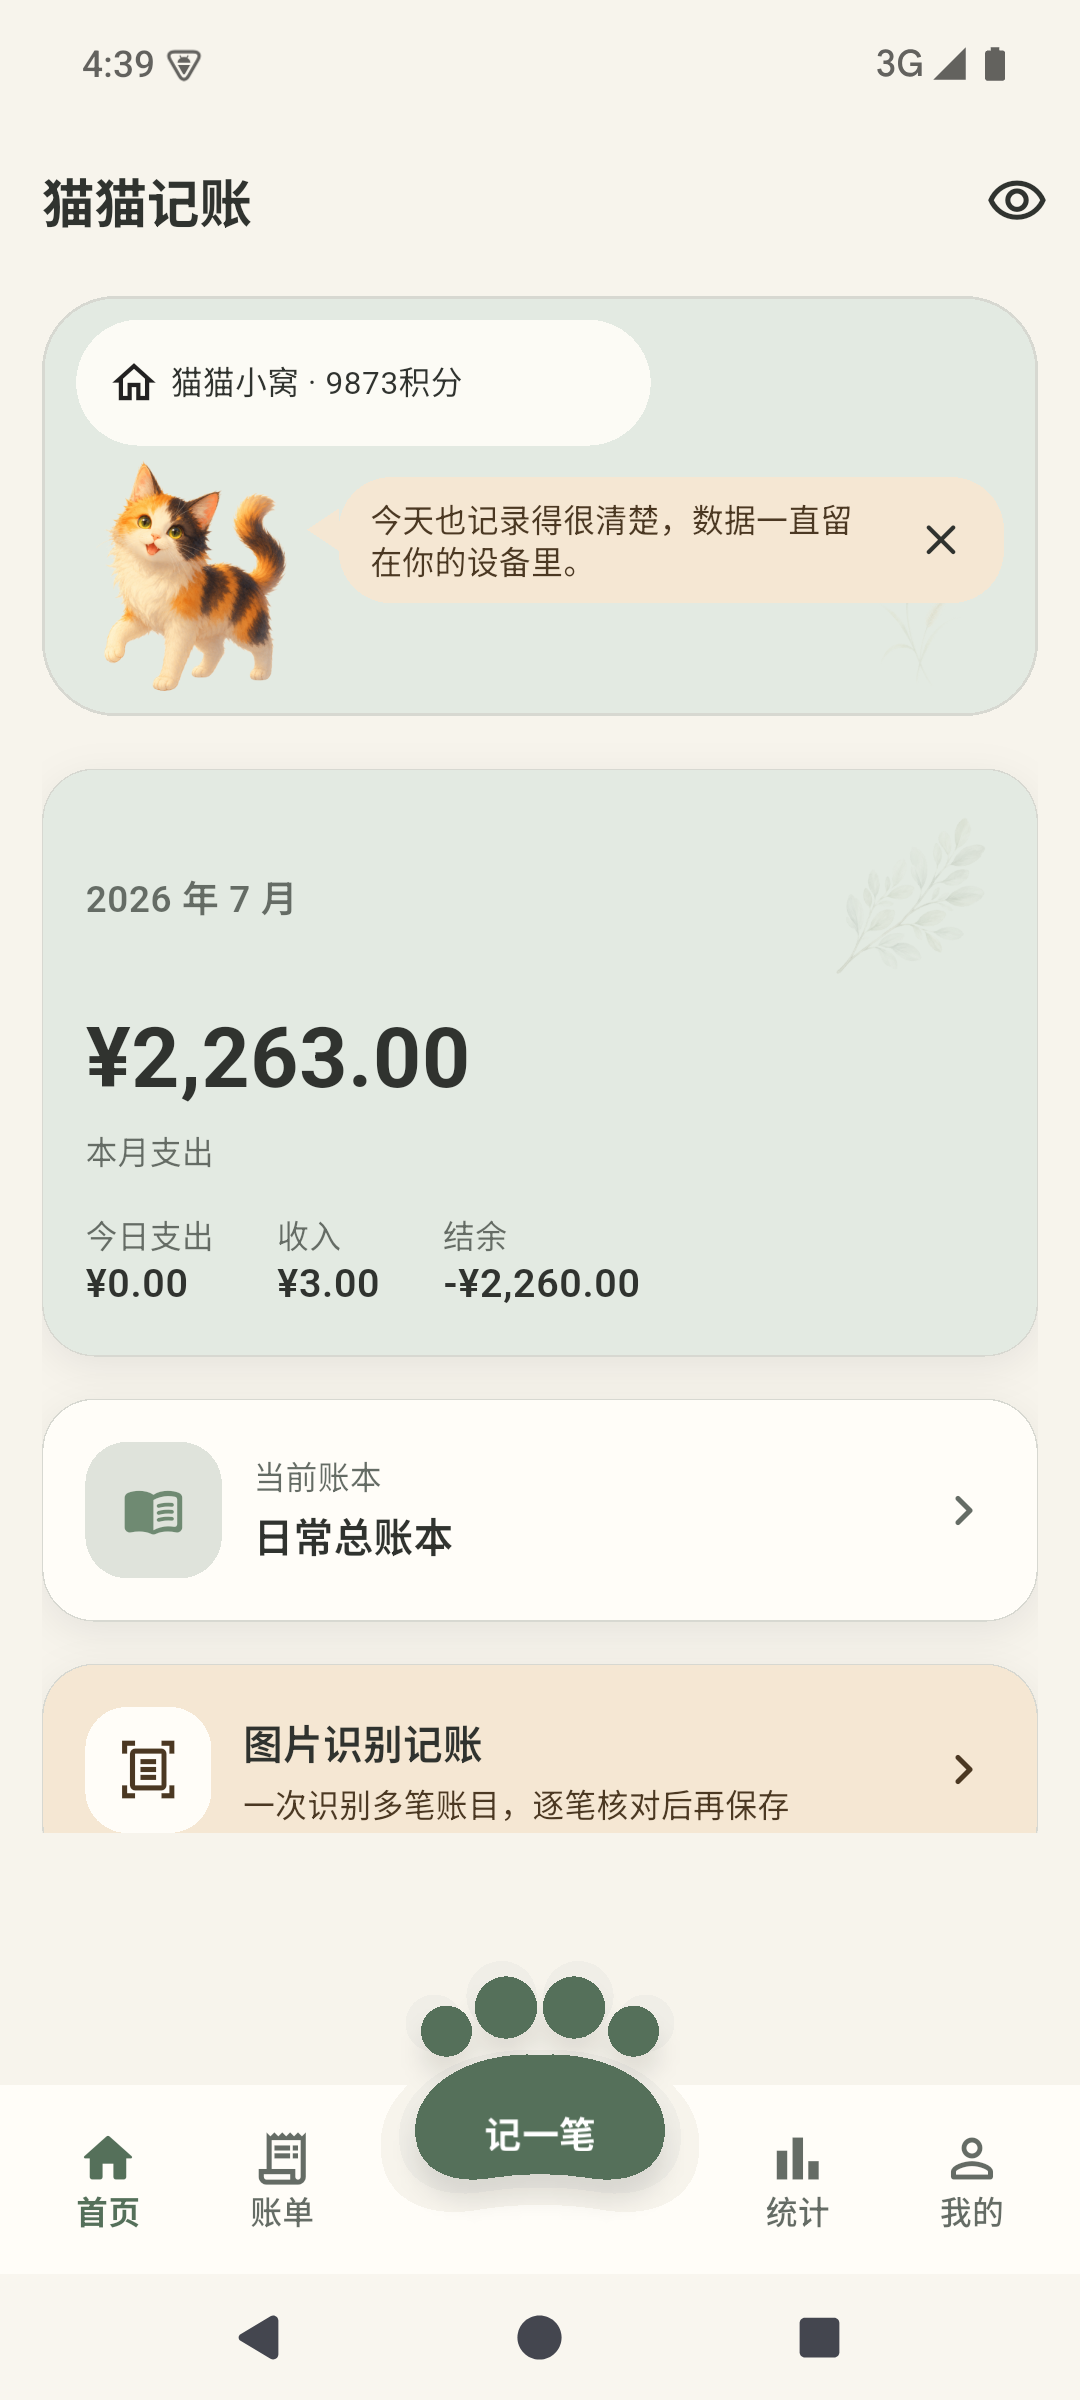
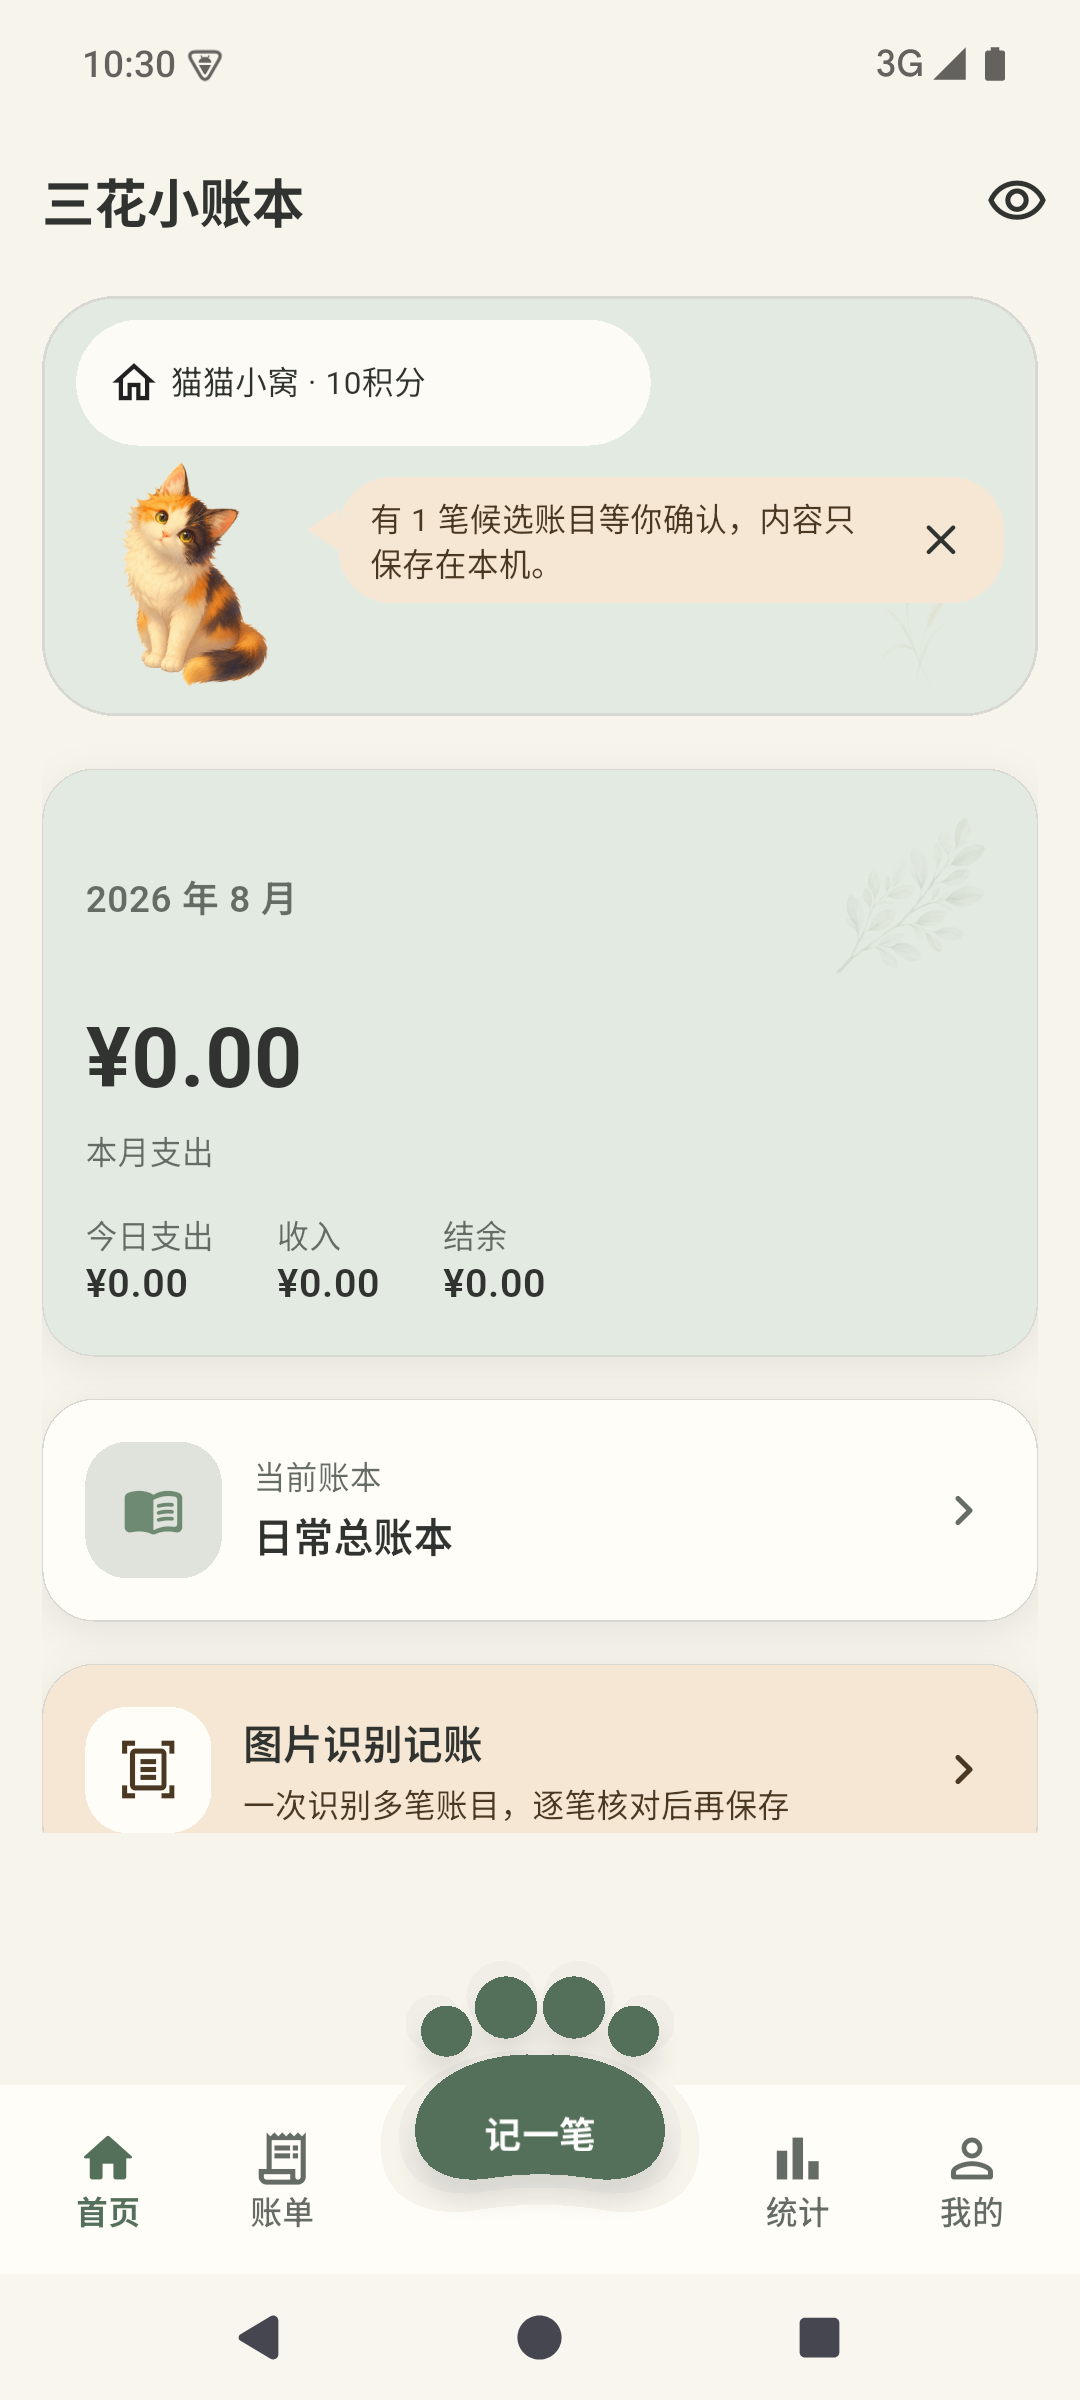
rename app to 三花小账本

diff --git a/privacy.html b/privacy.html
@@ -3,9 +3,9 @@
   <head>
     <meta charset="utf-8">
     <meta name="viewport" content="width=device-width, initial-scale=1">
-    <meta name="description" content="猫猫记账隐私政策，说明本地账本、共同分账、账本封面、图片 OCR、备份、权限和第三方组件。">
+    <meta name="description" content="三花小账本隐私政策，说明本地账本、共同分账、账本封面、图片 OCR、备份、权限和第三方组件。">
     <meta name="theme-color" content="#55705A">
-    <title>隐私政策｜猫猫记账</title>
+    <title>隐私政策｜三花小账本</title>
     <link rel="icon" href="favicon.png">
     <link rel="stylesheet" href="styles.css">
   </head>
@@ -15,7 +15,7 @@
       <nav class="nav" aria-label="主要导航">
         <a class="brand" href="index.html">
           <img src="assets/app-icon.png" alt="">
-          <span>猫猫记账</span>
+          <span>三花小账本</span>
         </a>
         <ul class="nav-links">
           <li><a href="index.html">首页</a></li>
@@ -27,13 +27,13 @@
 
     <main id="main" class="page policy-main">
       <header class="policy-header">
-        <p class="eyebrow">猫猫记账公开说明</p>
-        <h1>猫猫记账隐私政策</h1>
-        <p>本政策说明猫猫记账如何在用户设备内处理账目、图片、备份、安全设置和猫猫陪伴数据。</p>
+        <p class="eyebrow">三花小账本公开说明</p>
+        <h1>三花小账本隐私政策</h1>
+        <p>本政策说明三花小账本如何在用户设备内处理账目、图片、备份、安全设置和猫猫陪伴数据。</p>
         <div class="policy-meta">
-          <span>更新日期：2026 年 7 月 30 日</span>
-          <span>生效日期：2026 年 7 月 30 日</span>
-          <span>政策版本：2026-07-30-v2</span>
+          <span>更新日期：2026 年 8 月 1 日</span>
+          <span>生效日期：2026 年 8 月 1 日</span>
+          <span>政策版本：2026-08-01-v3</span>
         </div>
       </header>
 
@@ -58,9 +58,9 @@
         <article class="policy-content">
           <section id="scope">
             <h2>1. 适用范围和基本原则</h2>
-            <p>本政策适用于 Android 应用“猫猫记账”，应用标识为 <strong>com.maomaojizhang.app</strong>。开发者为杜士辰。</p>
+            <p>本政策适用于 Android 应用“三花小账本”，应用标识为 <strong>com.maomaojizhang.app</strong>。开发者为杜士辰。</p>
             <div class="notice">
-              <strong>核心原则：</strong>猫猫记账无需注册账号，不提供云同步，不接入广告或统计服务。面向用户分发的 Release 构建已显式移除互联网访问权限。
+              <strong>核心原则：</strong>三花小账本无需注册账号，不提供云同步，不接入广告或统计服务。面向用户分发的 Release 构建已显式移除互联网访问权限。
             </div>
             <p>应用不会要求用户提供姓名、手机号、身份证号、QQ 密码、邮箱密码或邮箱授权码。联系邮箱只用于用户主动发送反馈。</p>
           </section>
@@ -76,7 +76,7 @@
               <li>猫爪积分、亲密值、物品库存、互动记录和本地陪伴回顾；</li>
               <li>用户主动创建的本地应用锁配置。</li>
             </ul>
-            <p>上述数据用于展示账单、切换本地账本、计算共同分账结算建议、生成本地统计、匹配商户规则、完成猫猫互动和恢复用户设置，不会由猫猫记账上传到开发者服务器。</p>
+            <p>上述数据用于展示账单、切换本地账本、计算共同分账结算建议、生成本地统计、匹配商户规则、完成猫猫互动和恢复用户设置，不会由三花小账本上传到开发者服务器。</p>
             <h3>共同账本</h3>
             <p>共同账本用于在同一台设备上记录多人分担的账目。成员昵称、付款人、参与人和分摊金额均由用户填写或确认，只保存在本机。当前版本不提供账号、邀请链接、多人在线编辑或云端同步，其他成员不会因被填写昵称而收到通知或自动访问该账本。</p>
             <h3>应用锁</h3>
@@ -87,15 +87,15 @@
             <h2>3. 用户选择的图片与本地 OCR</h2>
             <p>图片识别功能只有在用户主动选择图片后才运行。应用通过系统图片选择器获取用户选中的文件，并使用随应用打包的 Google ML Kit 中文文字识别组件在设备内识别文字。</p>
             <ul>
-              <li>图片不会上传到猫猫记账服务器；</li>
+              <li>图片不会上传到三花小账本服务器；</li>
               <li>应用不会扫描未被用户选择的相册内容；</li>
               <li>识别结果会拆分为可编辑的账目候选；</li>
               <li>分类可以保持“未定”，用户可以稍后修改；</li>
               <li>应用数据库只保存用户确认保留的结构化识别结果，不保存用于 OCR 的原始图片副本。</li>
             </ul>
-            <p>系统图片选择器或操作系统可能在其缓存目录中短暂保存文件，这是系统组件的正常行为，不代表猫猫记账建立了图片备份。</p>
+            <p>系统图片选择器或操作系统可能在其缓存目录中短暂保存文件，这是系统组件的正常行为，不代表三花小账本建立了图片备份。</p>
             <h3>账本封面</h3>
-            <p>账本封面与 OCR 图片用途不同。只有用户主动选择并确认设置为封面时，应用才会将处理后的封面数据保存在本机，直至用户更换、移除封面或删除相应账本。封面不会由猫猫记账上传到开发者服务器。</p>
+            <p>账本封面与 OCR 图片用途不同。只有用户主动选择并确认设置为封面时，应用才会将处理后的封面数据保存在本机，直至用户更换、移除封面或删除相应账本。封面不会由三花小账本上传到开发者服务器。</p>
           </section>
 
           <section id="capture">
@@ -133,19 +133,19 @@
           <section id="components">
             <h2>7. 第三方组件和 SDK</h2>
             <p>应用使用 Flutter、SQLite、Google ML Kit 中文文字识别、系统图片与文件选择、Android 安全存储和生物识别等开源或系统组件。它们用于实现界面、本地存储、文件选择、OCR 和应用锁。</p>
-            <p>猫猫记账未集成广告、用户画像、行为统计、推送营销、云端大模型或在线支付 SDK。各组件的提供方、用途、处理范围和官方说明见<a href="sdk.html">第三方 SDK 清单</a>。</p>
+            <p>三花小账本未集成广告、用户画像、行为统计、推送营销、云端大模型或在线支付 SDK。各组件的提供方、用途、处理范围和官方说明见<a href="sdk.html">第三方 SDK 清单</a>。</p>
           </section>
 
           <section id="delete">
             <h2>8. 数据删除、卸载与用户权利</h2>
             <p>用户可以在应用中修改或删除单笔账目，也可以通过“我的 → 备份与恢复”中的清除功能删除全部本地数据。清除操作需要二次确认。</p>
-            <p>卸载应用通常会删除 Android 为猫猫记账保存的应用私有数据。用户此前主动导出的备份文件位于用户选择的位置，不一定随卸载删除，需要由用户自行管理。</p>
+            <p>卸载应用通常会删除 Android 为三花小账本保存的应用私有数据。用户此前主动导出的备份文件位于用户选择的位置，不一定随卸载删除，需要由用户自行管理。</p>
             <p>由于应用不建立用户账号，也不把账本上传到开发者服务器，因此不存在通过服务器账号提交数据导出或注销申请的流程。</p>
           </section>
 
           <section id="children">
             <h2>9. 未成年人使用说明</h2>
-            <p>猫猫记账不是专门面向儿童设计的产品，也不主动收集未成年人的身份信息。未成年人应在监护人指导下使用，并避免在账目备注、图片或备份文件中填写不必要的个人敏感信息。</p>
+            <p>三花小账本不是专门面向儿童设计的产品，也不主动收集未成年人的身份信息。未成年人应在监护人指导下使用，并避免在账目备注、图片或备份文件中填写不必要的个人敏感信息。</p>
           </section>
 
           <section id="updates">
@@ -166,7 +166,7 @@
 
     <footer class="site-footer">
       <div class="footer-inner">
-        <span>© 2026 杜士辰 · 猫猫记账</span>
+        <span>© 2026 杜士辰 · 三花小账本</span>
         <div class="footer-links">
           <a href="index.html">官网首页</a>
           <a href="sdk.html">SDK 清单</a>

diff --git a/sdk.html b/sdk.html
@@ -3,9 +3,9 @@
   <head>
     <meta charset="utf-8">
     <meta name="viewport" content="width=device-width, initial-scale=1">
-    <meta name="description" content="猫猫记账第三方 SDK 与开源组件清单，包括 Flutter、SQLite、ML Kit、本地文件选择和安全组件。">
+    <meta name="description" content="三花小账本第三方 SDK 与开源组件清单，包括 Flutter、SQLite、ML Kit、本地文件选择和安全组件。">
     <meta name="theme-color" content="#55705A">
-    <title>第三方 SDK 清单｜猫猫记账</title>
+    <title>第三方 SDK 清单｜三花小账本</title>
     <link rel="icon" href="favicon.png">
     <link rel="stylesheet" href="styles.css">
   </head>
@@ -15,7 +15,7 @@
       <nav class="nav" aria-label="主要导航">
         <a class="brand" href="index.html">
           <img src="assets/app-icon.png" alt="">
-          <span>猫猫记账</span>
+          <span>三花小账本</span>
         </a>
         <ul class="nav-links">
           <li><a href="index.html">首页</a></li>
@@ -27,11 +27,11 @@
 
     <main id="main" class="page policy-main">
       <header class="policy-header">
-        <p class="eyebrow">猫猫记账公开说明</p>
+        <p class="eyebrow">三花小账本公开说明</p>
         <h1>第三方 SDK 与开源组件清单</h1>
         <p>以下清单依据当前 Flutter 依赖、Android Gradle 依赖和实际代码用途整理。普通算法与界面工具不会被夸大描述为个人信息收集 SDK。</p>
         <div class="policy-meta">
-          <span>更新日期：2026 年 7 月 30 日</span>
+          <span>更新日期：2026 年 8 月 1 日</span>
           <span>对应应用版本：1.0.0</span>
           <span>开发者：杜士辰</span>
         </div>
@@ -55,8 +55,8 @@
                     <dt>提供方</dt><dd>Google LLC；Flutter 桥接组件由 flutter-ml.dev 社区维护</dd>
                     <dt>使用目的</dt><dd>识别用户主动选择的账单图片和主动截取的当前账单画面</dd>
                     <dt>处理的数据</dt><dd>用户选择或主动截取的图片像素，以及从图片中识别出的文字</dd>
-                    <dt>是否联网</dt><dd>猫猫记账使用随 APK 打包的中文识别组件，Release 构建不授予应用互联网访问权限</dd>
-                    <dt>是否上传内容</dt><dd>不由猫猫记账上传，识别在设备内完成</dd>
+                    <dt>是否联网</dt><dd>三花小账本使用随 APK 打包的中文识别组件，Release 构建不授予应用互联网访问权限</dd>
+                    <dt>是否上传内容</dt><dd>不由三花小账本上传，识别在设备内完成</dd>
                     <dt>官方说明</dt><dd><a href="https://developers.google.com/ml-kit/vision/text-recognition/v2/android" rel="noopener noreferrer">ML Kit Android 文字识别说明</a>；<a href="https://pub.dev/packages/google_mlkit_text_recognition" rel="noopener noreferrer">Flutter 组件说明</a></dd>
                   </dl>
                 </div>
@@ -97,8 +97,8 @@
                     <dt>提供方</dt><dd>miguelruivo.com 社区与 Flutter 官方团队</dd>
                     <dt>使用目的</dt><dd>通过系统文件选择器导入、导出备份，并定位应用私有文件目录</dd>
                     <dt>处理的数据</dt><dd>用户主动选择的备份文件、导出位置和应用内部路径</dd>
-                    <dt>是否联网</dt><dd>组件本身不要求猫猫记账联网。若用户选择第三方云盘位置，由对应系统文件提供方处理</dd>
-                    <dt>是否上传内容</dt><dd>猫猫记账不主动上传</dd>
+                    <dt>是否联网</dt><dd>组件本身不要求三花小账本联网。若用户选择第三方云盘位置，由对应系统文件提供方处理</dd>
+                    <dt>是否上传内容</dt><dd>三花小账本不主动上传</dd>
                     <dt>官方说明</dt><dd><a href="https://pub.dev/packages/file_picker" rel="noopener noreferrer">file_picker 组件说明</a>；<a href="https://pub.dev/packages/path_provider" rel="noopener noreferrer">path_provider 组件说明</a></dd>
                   </dl>
                 </div>
@@ -129,8 +129,8 @@
                   <dl>
                     <dt>提供方</dt><dd>Google 与 Flutter 开源社区</dd>
                     <dt>使用目的</dt><dd>构建 Android 界面、交互和跨平台运行基础</dd>
-                    <dt>处理的数据</dt><dd>由应用业务代码决定；Flutter 本身不代表猫猫记账建立用户画像</dd>
-                    <dt>是否联网</dt><dd>Release 运行时不需要猫猫记账联网</dd>
+                    <dt>处理的数据</dt><dd>由应用业务代码决定；Flutter 本身不代表三花小账本建立用户画像</dd>
+                    <dt>是否联网</dt><dd>Release 运行时不需要三花小账本联网</dd>
                     <dt>是否上传内容</dt><dd>否</dd>
                     <dt>官方说明</dt><dd><a href="https://docs.flutter.dev/" rel="noopener noreferrer">Flutter 官方文档</a></dd>
                   </dl>
@@ -183,7 +183,7 @@
 
     <footer class="site-footer">
       <div class="footer-inner">
-        <span>© 2026 杜士辰 · 猫猫记账</span>
+        <span>© 2026 杜士辰 · 三花小账本</span>
         <div class="footer-links">
           <a href="index.html">官网首页</a>
           <a href="privacy.html">隐私政策</a>

diff --git a/index.html b/index.html
@@ -3,9 +3,9 @@
   <head>
     <meta charset="utf-8">
     <meta name="viewport" content="width=device-width, initial-scale=1">
-    <meta name="description" content="猫猫记账是一款无需注册、本地优先、支持图片识别、共同分账和猫猫陪伴的 Android 日常记账应用。">
+    <meta name="description" content="三花小账本是一款无需注册、本地优先、支持图片识别、共同分账和三花猫陪伴的 Android 日常记账应用。">
     <meta name="theme-color" content="#55705A">
-    <title>猫猫记账｜本地优先的日常记账应用</title>
+    <title>三花小账本｜本地优先的日常记账应用</title>
     <link rel="icon" href="favicon.png">
     <link rel="stylesheet" href="styles.css">
   </head>
@@ -15,7 +15,7 @@
       <nav class="nav" aria-label="主要导航">
         <a class="brand" href="index.html" aria-current="page">
           <img src="assets/app-icon.png" alt="">
-          <span>猫猫记账</span>
+          <span>三花小账本</span>
         </a>
         <ul class="nav-links">
           <li><a href="index.html" aria-current="page">首页</a></li>
@@ -41,9 +41,9 @@
             <li>Release 无联网权限</li>
           </ul>
         </div>
-        <div class="phone-stage" aria-label="猫猫记账应用首页预览">
+        <div class="phone-stage" aria-label="三花小账本应用首页预览">
           <figure class="phone">
-            <img src="assets/app-preview-v2.png" alt="猫猫记账首页，包含猫猫小窝、本月概览、当前账本和图片识别记账入口">
+            <img src="assets/app-preview-v2.png" alt="三花小账本首页，包含猫猫小窝、本月概览、当前账本和图片识别记账入口">
           </figure>
           <img class="cat-friend" src="assets/cat-normal.png" alt="">
         </div>
@@ -154,14 +154,14 @@
         <div class="contact-meta">
           <strong>开发者：杜士辰</strong><br>
           <a href="mailto:3288073775@qq.com">3288073775@qq.com</a><br>
-          <small>页面更新：2026 年 7 月 30 日</small>
+          <small>页面更新：2026 年 8 月 1 日</small>
         </div>
       </section>
     </main>
 
     <footer class="site-footer">
       <div class="footer-inner">
-        <span>© 2026 杜士辰 · 猫猫记账</span>
+        <span>© 2026 杜士辰 · 三花小账本</span>
         <div class="footer-links">
           <a href="privacy.html">隐私政策</a>
           <a href="sdk.html">SDK 清单</a>

diff --git a/README.md b/README.md
@@ -1,6 +1,6 @@
-# 猫猫记账官网与隐私政策
+# 三花小账本官网与隐私政策
 
-这是猫猫记账的独立静态官网仓库，用于公开展示应用介绍、隐私政策和第三方 SDK 清单。
+这是三花小账本的独立静态官网仓库，用于公开展示应用介绍、隐私政策和第三方 SDK 清单。
 
 正式网址：https://shichen886.github.io/maomao-jizhang-privacy/
 
